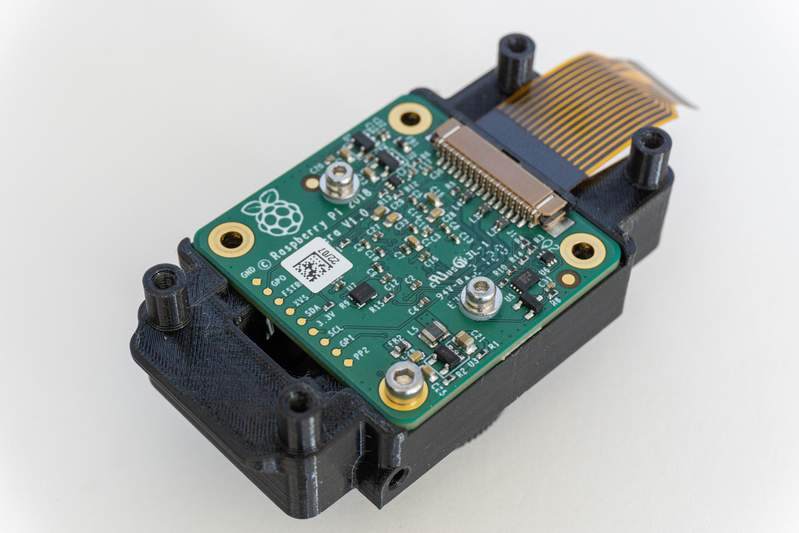
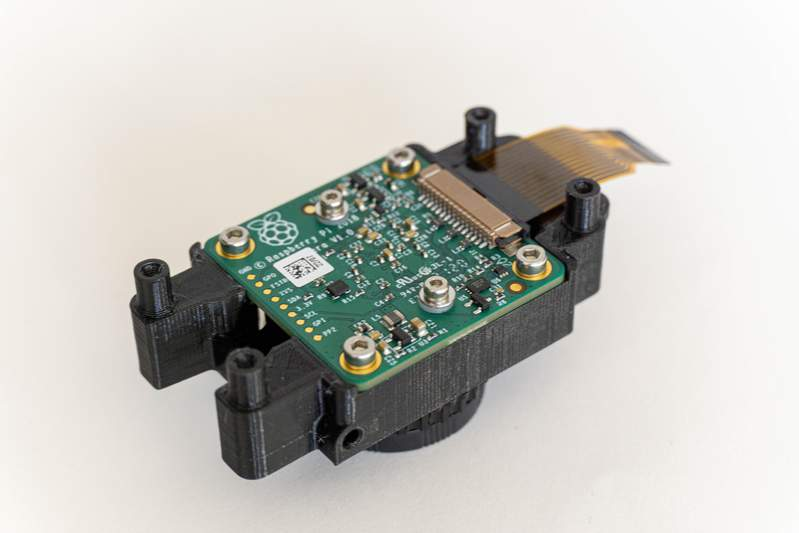
docs: assembly update

diff --git a/docs/js/glide.min.js b/docs/js/glide.min.js
@@ -1,0 +1,6 @@
+/*!
+ * Glide.js v3.4.1
+ * (c) 2013-2019 Jędrzej Chałubek <jedrzej.chalubek@gmail.com> (http://jedrzejchalubek.com/)
+ * Released under the MIT License.
+ */
+!function(t,e){"object"==typeof exports&&"undefined"!=typeof module?module.exports=e():"function"==typeof define&&define.amd?define(e):t.Glide=e()}(this,function(){"use strict";var n={type:"slider",startAt:0,perView:1,focusAt:0,gap:10,autoplay:!1,hoverpause:!0,keyboard:!0,bound:!1,swipeThreshold:80,dragThreshold:120,perTouch:!1,touchRatio:.5,touchAngle:45,animationDuration:400,rewind:!0,rewindDuration:800,animationTimingFunc:"cubic-bezier(.165, .840, .440, 1)",throttle:10,direction:"ltr",peek:0,breakpoints:{},classes:{direction:{ltr:"glide--ltr",rtl:"glide--rtl"},slider:"glide--slider",carousel:"glide--carousel",swipeable:"glide--swipeable",dragging:"glide--dragging",cloneSlide:"glide__slide--clone",activeNav:"glide__bullet--active",activeSlide:"glide__slide--active",disabledArrow:"glide__arrow--disabled"}};function i(t,e){if(!(t instanceof e))throw new TypeError("Cannot call a class as a function")}var r="function"==typeof Symbol&&"symbol"==typeof Symbol.iterator?function(t){return typeof t}:function(t){return t&&"function"==typeof Symbol&&t.constructor===Symbol&&t!==Symbol.prototype?"symbol":typeof t},t=function(t,e,n){return e&&o(t.prototype,e),n&&o(t,n),t};function o(t,e){for(var n=0;n<e.length;n++){var i=e[n];i.enumerable=i.enumerable||!1,i.configurable=!0,"value"in i&&(i.writable=!0),Object.defineProperty(t,i.key,i)}}var a=Object.assign||function(t){for(var e=1;e<arguments.length;e++){var n=arguments[e];for(var i in n)Object.prototype.hasOwnProperty.call(n,i)&&(t[i]=n[i])}return t};function y(t){return parseInt(t)}function s(t){return"string"==typeof t}function u(t){var e=void 0===t?"undefined":r(t);return"function"===e||"object"===e&&!!t}function c(t){return"function"==typeof t}function l(t){return void 0===t}function f(t){return t.constructor===Array}function d(t,e,n){Object.defineProperty(t,e,n)}function h(t,e){var n=a({},t,e);return e.hasOwnProperty("classes")&&(n.classes=a({},t.classes,e.classes),e.classes.hasOwnProperty("direction")&&(n.classes.direction=a({},t.classes.direction,e.classes.direction))),e.hasOwnProperty("breakpoints")&&(n.breakpoints=a({},t.breakpoints,e.breakpoints)),n}var v=(t(e,[{key:"on",value:function(t,e){if(f(t))for(var n=0;n<t.length;n++)this.on(t[n],e);this.hop.call(this.events,t)||(this.events[t]=[]);var i=this.events[t].push(e)-1;return{remove:function(){delete this.events[t][i]}}}},{key:"emit",value:function(t,e){if(f(t))for(var n=0;n<t.length;n++)this.emit(t[n],e);this.hop.call(this.events,t)&&this.events[t].forEach(function(t){t(e||{})})}}]),e);function e(){var t=0<arguments.length&&void 0!==arguments[0]?arguments[0]:{};i(this,e),this.events=t,this.hop=t.hasOwnProperty}var p=(t(m,[{key:"mount",value:function(t){var e=0<arguments.length&&void 0!==t?t:{};return this._e.emit("mount.before"),u(e)&&(this._c=function(t,e,n){var i={};for(var r in e)c(e[r])&&(i[r]=e[r](t,i,n));for(var o in i)c(i[o].mount)&&i[o].mount();return i}(this,e,this._e)),this._e.emit("mount.after"),this}},{key:"mutate",value:function(t){var e=0<arguments.length&&void 0!==t?t:[];return f(e)&&(this._t=e),this}},{key:"update",value:function(t){var e=0<arguments.length&&void 0!==t?t:{};return this.settings=h(this.settings,e),e.hasOwnProperty("startAt")&&(this.index=e.startAt),this._e.emit("update"),this}},{key:"go",value:function(t){return this._c.Run.make(t),this}},{key:"move",value:function(t){return this._c.Transition.disable(),this._c.Move.make(t),this}},{key:"destroy",value:function(){return this._e.emit("destroy"),this}},{key:"play",value:function(t){var e=0<arguments.length&&void 0!==t&&t;return e&&(this.settings.autoplay=e),this._e.emit("play"),this}},{key:"pause",value:function(){return this._e.emit("pause"),this}},{key:"disable",value:function(){return this.disabled=!0,this}},{key:"enable",value:function(){return this.disabled=!1,this}},{key:"on",value:function(t,e){return this._e.on(t,e),this}},{key:"isType",value:function(t){return this.settings.type===t}},{key:"settings",get:function(){return this._o},set:function(t){u(t)&&(this._o=t)}},{key:"index",get:function(){return this._i},set:function(t){this._i=y(t)}},{key:"type",get:function(){return this.settings.type}},{key:"disabled",get:function(){return this._d},set:function(t){this._d=!!t}}]),m);function m(t){var e=1<arguments.length&&void 0!==arguments[1]?arguments[1]:{};i(this,m),this._c={},this._t=[],this._e=new v,this.disabled=!1,this.selector=t,this.settings=h(n,e),this.index=this.settings.startAt}function g(){return(new Date).getTime()}function b(n,i,r){var o=void 0,s=void 0,u=void 0,a=void 0,c=0;r=r||{};function l(){c=!1===r.leading?0:g(),o=null,a=n.apply(s,u),o||(s=u=null)}function t(){var t=g();c||!1!==r.leading||(c=t);var e=i-(t-c);return s=this,u=arguments,e<=0||i<e?(o&&(clearTimeout(o),o=null),c=t,a=n.apply(s,u),o||(s=u=null)):o||!1===r.trailing||(o=setTimeout(l,e)),a}return t.cancel=function(){clearTimeout(o),c=0,o=s=u=null},t}var w={ltr:["marginLeft","marginRight"],rtl:["marginRight","marginLeft"]};function _(t){if(t&&t.parentNode){for(var e=t.parentNode.firstChild,n=[];e;e=e.nextSibling)1===e.nodeType&&e!==t&&n.push(e);return n}return[]}function k(t){return!!(t&&t instanceof window.HTMLElement)}var S='[data-glide-el="track"]';var H=(t(T,[{key:"on",value:function(t,e,n,i){var r=3<arguments.length&&void 0!==i&&i;s(t)&&(t=[t]);for(var o=0;o<t.length;o++)this.listeners[t[o]]=n,e.addEventListener(t[o],this.listeners[t[o]],r)}},{key:"off",value:function(t,e,n){var i=2<arguments.length&&void 0!==n&&n;s(t)&&(t=[t]);for(var r=0;r<t.length;r++)e.removeEventListener(t[r],this.listeners[t[r]],i)}},{key:"destroy",value:function(){delete this.listeners}}]),T);function T(){var t=0<arguments.length&&void 0!==arguments[0]?arguments[0]:{};i(this,T),this.listeners=t}var x=["ltr","rtl"],O={">":"<","<":">","=":"="};function A(t,e){return{modify:function(t){return e.Direction.is("rtl")?-t:t}}}function M(i,r,o){var s=[function(e,n){return{modify:function(t){return t+n.Gaps.value*e.index}}},function(t,e){return{modify:function(t){return t+e.Clones.grow/2}}},function(n,i){return{modify:function(t){if(0<=n.settings.focusAt){var e=i.Peek.value;return u(e)?t-e.before:t-e}return t}}},function(o,s){return{modify:function(t){var e=s.Gaps.value,n=s.Sizes.width,i=o.settings.focusAt,r=s.Sizes.slideWidth;return"center"===i?t-(n/2-r/2):t-r*i-e*i}}}].concat(i._t,[A]);return{mutate:function(t){for(var e=0;e<s.length;e++){var n=s[e];c(n)&&c(n().modify)&&(t=n(i,r,o).modify(t))}return t}}}var C=!1;try{var P=Object.defineProperty({},"passive",{get:function(){C=!0}});window.addEventListener("testPassive",null,P),window.removeEventListener("testPassive",null,P)}catch(t){}var L=C,z=["touchstart","mousedown"],j=["touchmove","mousemove"],D=["touchend","touchcancel","mouseup","mouseleave"],E=["mousedown","mousemove","mouseup","mouseleave"];function R(t){return u(t)?function(n){return Object.keys(n).sort().reduce(function(t,e){return t[e]=n[e],t[e],t},{})}(t):{}}var W={Html:function(e,t){var n={mount:function(){this.root=e.selector,this.track=this.root.querySelector(S),this.slides=Array.prototype.slice.call(this.wrapper.children).filter(function(t){return!t.classList.contains(e.settings.classes.cloneSlide)})}};return d(n,"root",{get:function(){return n._r},set:function(t){s(t)&&(t=document.querySelector(t)),k(t)&&(n._r=t)}}),d(n,"track",{get:function(){return n._t},set:function(t){k(t)&&(n._t=t)}}),d(n,"wrapper",{get:function(){return n.track.children[0]}}),n},Translate:function(r,o,s){var u={set:function(t){var e=M(r,o).mutate(t);o.Html.wrapper.style.transform="translate3d("+-1*e+"px, 0px, 0px)"},remove:function(){o.Html.wrapper.style.transform=""}};return s.on("move",function(t){var e=o.Gaps.value,n=o.Sizes.length,i=o.Sizes.slideWidth;return r.isType("carousel")&&o.Run.isOffset("<")?(o.Transition.after(function(){s.emit("translate.jump"),u.set(i*(n-1))}),u.set(-i-e*n)):r.isType("carousel")&&o.Run.isOffset(">")?(o.Transition.after(function(){s.emit("translate.jump"),u.set(0)}),u.set(i*n+e*n)):u.set(t.movement)}),s.on("destroy",function(){u.remove()}),u},Transition:function(n,i,t){var r=!1,e={compose:function(t){var e=n.settings;return r?t+" 0ms "+e.animationTimingFunc:t+" "+this.duration+"ms "+e.animationTimingFunc},set:function(t){var e=0<arguments.length&&void 0!==t?t:"transform";i.Html.wrapper.style.transition=this.compose(e)},remove:function(){i.Html.wrapper.style.transition=""},after:function(t){setTimeout(function(){t()},this.duration)},enable:function(){r=!1,this.set()},disable:function(){r=!0,this.set()}};return d(e,"duration",{get:function(){var t=n.settings;return n.isType("slider")&&i.Run.offset?t.rewindDuration:t.animationDuration}}),t.on("move",function(){e.set()}),t.on(["build.before","resize","translate.jump"],function(){e.disable()}),t.on("run",function(){e.enable()}),t.on("destroy",function(){e.remove()}),e},Direction:function(t,e,n){var i={mount:function(){this.value=t.settings.direction},resolve:function(t){var e=t.slice(0,1);return this.is("rtl")?t.split(e).join(O[e]):t},is:function(t){return this.value===t},addClass:function(){e.Html.root.classList.add(t.settings.classes.direction[this.value])},removeClass:function(){e.Html.root.classList.remove(t.settings.classes.direction[this.value])}};return d(i,"value",{get:function(){return i._v},set:function(t){-1<x.indexOf(t)&&(i._v=t)}}),n.on(["destroy","update"],function(){i.removeClass()}),n.on("update",function(){i.mount()}),n.on(["build.before","update"],function(){i.addClass()}),i},Peek:function(n,t,e){var i={mount:function(){this.value=n.settings.peek}};return d(i,"value",{get:function(){return i._v},set:function(t){u(t)?(t.before=y(t.before),t.after=y(t.after)):t=y(t),i._v=t}}),d(i,"reductor",{get:function(){var t=i.value,e=n.settings.perView;return u(t)?t.before/e+t.after/e:2*t/e}}),e.on(["resize","update"],function(){i.mount()}),i},Sizes:function(t,i,e){var n={setupSlides:function(){for(var t=this.slideWidth+"px",e=i.Html.slides,n=0;n<e.length;n++)e[n].style.width=t},setupWrapper:function(t){i.Html.wrapper.style.width=this.wrapperSize+"px"},remove:function(){for(var t=i.Html.slides,e=0;e<t.length;e++)t[e].style.width="";i.Html.wrapper.style.width=""}};return d(n,"length",{get:function(){return i.Html.slides.length}}),d(n,"width",{get:function(){return i.Html.root.offsetWidth}}),d(n,"wrapperSize",{get:function(){return n.slideWidth*n.length+i.Gaps.grow+i.Clones.grow}}),d(n,"slideWidth",{get:function(){return n.width/t.settings.perView-i.Peek.reductor-i.Gaps.reductor}}),e.on(["build.before","resize","update"],function(){n.setupSlides(),n.setupWrapper()}),e.on("destroy",function(){n.remove()}),n},Gaps:function(e,o,t){var n={apply:function(t){for(var e=0,n=t.length;e<n;e++){var i=t[e].style,r=o.Direction.value;i[w[r][0]]=0!==e?this.value/2+"px":"",e!==t.length-1?i[w[r][1]]=this.value/2+"px":i[w[r][1]]=""}},remove:function(t){for(var e=0,n=t.length;e<n;e++){var i=t[e].style;i.marginLeft="",i.marginRight=""}}};return d(n,"value",{get:function(){return y(e.settings.gap)}}),d(n,"grow",{get:function(){return n.value*(o.Sizes.length-1)}}),d(n,"reductor",{get:function(){var t=e.settings.perView;return n.value*(t-1)/t}}),t.on(["build.after","update"],b(function(){n.apply(o.Html.wrapper.children)},30)),t.on("destroy",function(){n.remove(o.Html.wrapper.children)}),n},Move:function(t,i,r){var e={mount:function(){this._o=0},make:function(t){var e=this,n=0<arguments.length&&void 0!==t?t:0;this.offset=n,r.emit("move",{movement:this.value}),i.Transition.after(function(){r.emit("move.after",{movement:e.value})})}};return d(e,"offset",{get:function(){return e._o},set:function(t){e._o=l(t)?0:y(t)}}),d(e,"translate",{get:function(){return i.Sizes.slideWidth*t.index}}),d(e,"value",{get:function(){var t=this.offset,e=this.translate;return i.Direction.is("rtl")?e+t:e-t}}),r.on(["build.before","run"],function(){e.make()}),e},Clones:function(v,p,t){var e={mount:function(){this.items=[],v.isType("carousel")&&(this.items=this.collect())},collect:function(t){for(var e=0<arguments.length&&void 0!==t?t:[],n=p.Html.slides,i=v.settings,r=i.perView,o=i.classes,s=r+ +!!v.settings.peek,u=n.slice(0,s),a=n.slice(-s),c=0;c<Math.max(1,Math.floor(r/n.length));c++){for(var l=0;l<u.length;l++){var f=u[l].cloneNode(!0);f.classList.add(o.cloneSlide),e.push(f)}for(var d=0;d<a.length;d++){var h=a[d].cloneNode(!0);h.classList.add(o.cloneSlide),e.unshift(h)}}return e},append:function(){for(var t=this.items,e=p.Html,n=e.wrapper,i=e.slides,r=Math.floor(t.length/2),o=t.slice(0,r).reverse(),s=t.slice(r,t.length),u=p.Sizes.slideWidth+"px",a=0;a<s.length;a++)n.appendChild(s[a]);for(var c=0;c<o.length;c++)n.insertBefore(o[c],i[0]);for(var l=0;l<t.length;l++)t[l].style.width=u},remove:function(){for(var t=this.items,e=0;e<t.length;e++)p.Html.wrapper.removeChild(t[e])}};return d(e,"grow",{get:function(){return(p.Sizes.slideWidth+p.Gaps.value)*e.items.length}}),t.on("update",function(){e.remove(),e.mount(),e.append()}),t.on("build.before",function(){v.isType("carousel")&&e.append()}),t.on("destroy",function(){e.remove()}),e},Resize:function(t,e,n){var i=new H,r={mount:function(){this.bind()},bind:function(){i.on("resize",window,b(function(){n.emit("resize")},t.settings.throttle))},unbind:function(){i.off("resize",window)}};return n.on("destroy",function(){r.unbind(),i.destroy()}),r},Build:function(n,i,t){var e={mount:function(){t.emit("build.before"),this.typeClass(),this.activeClass(),t.emit("build.after")},typeClass:function(){i.Html.root.classList.add(n.settings.classes[n.settings.type])},activeClass:function(){var e=n.settings.classes,t=i.Html.slides[n.index];t&&(t.classList.add(e.activeSlide),_(t).forEach(function(t){t.classList.remove(e.activeSlide)}))},removeClasses:function(){var e=n.settings.classes;i.Html.root.classList.remove(e[n.settings.type]),i.Html.slides.forEach(function(t){t.classList.remove(e.activeSlide)})}};return t.on(["destroy","update"],function(){e.removeClasses()}),t.on(["resize","update"],function(){e.mount()}),t.on("move.after",function(){e.activeClass()}),e},Run:function(o,n,i){var t={mount:function(){this._o=!1},make:function(t){var e=this;o.disabled||(o.disable(),this.move=t,i.emit("run.before",this.move),this.calculate(),i.emit("run",this.move),n.Transition.after(function(){e.isStart()&&i.emit("run.start",e.move),e.isEnd()&&i.emit("run.end",e.move),(e.isOffset("<")||e.isOffset(">"))&&(e._o=!1,i.emit("run.offset",e.move)),i.emit("run.after",e.move),o.enable()}))},calculate:function(){var t=this.move,e=this.length,n=t.steps,i=t.direction,r=function(t){return"number"==typeof t}(y(n))&&0!==y(n);switch(i){case">":">"===n?o.index=e:this.isEnd()?o.isType("slider")&&!o.settings.rewind||(this._o=!0,o.index=0):r?o.index+=Math.min(e-o.index,-y(n)):o.index++;break;case"<":"<"===n?o.index=0:this.isStart()?o.isType("slider")&&!o.settings.rewind||(this._o=!0,o.index=e):r?o.index-=Math.min(o.index,y(n)):o.index--;break;case"=":o.index=n}},isStart:function(){return 0===o.index},isEnd:function(){return o.index===this.length},isOffset:function(t){return this._o&&this.move.direction===t}};return d(t,"move",{get:function(){return this._m},set:function(t){var e=t.substr(1);this._m={direction:t.substr(0,1),steps:e?y(e)?y(e):e:0}}}),d(t,"length",{get:function(){var t=o.settings,e=n.Html.slides.length;return o.isType("slider")&&"center"!==t.focusAt&&t.bound?e-1-(y(t.perView)-1)+y(t.focusAt):e-1}}),d(t,"offset",{get:function(){return this._o}}),t},Swipe:function(d,h,v){var n=new H,p=0,m=0,g=0,i=!1,r=!!L&&{passive:!0},t={mount:function(){this.bindSwipeStart()},start:function(t){if(!i&&!d.disabled){this.disable();var e=this.touches(t);p=null,m=y(e.pageX),g=y(e.pageY),this.bindSwipeMove(),this.bindSwipeEnd(),v.emit("swipe.start")}},move:function(t){if(!d.disabled){var e=d.settings,n=e.touchAngle,i=e.touchRatio,r=e.classes,o=this.touches(t),s=y(o.pageX)-m,u=y(o.pageY)-g,a=Math.abs(s<<2),c=Math.abs(u<<2),l=Math.sqrt(a+c),f=Math.sqrt(c);if(!(180*(p=Math.asin(f/l))/Math.PI<n))return!1;t.stopPropagation(),h.Move.make(s*function(t){return parseFloat(t)}(i)),h.Html.root.classList.add(r.dragging),v.emit("swipe.move")}},end:function(t){if(!d.disabled){var e=d.settings,n=this.touches(t),i=this.threshold(t),r=n.pageX-m,o=180*p/Math.PI,s=Math.round(r/h.Sizes.slideWidth);this.enable(),i<r&&o<e.touchAngle?(e.perTouch&&(s=Math.min(s,y(e.perTouch))),h.Direction.is("rtl")&&(s=-s),h.Run.make(h.Direction.resolve("<"+s))):r<-i&&o<e.touchAngle?(e.perTouch&&(s=Math.max(s,-y(e.perTouch))),h.Direction.is("rtl")&&(s=-s),h.Run.make(h.Direction.resolve(">"+s))):h.Move.make(),h.Html.root.classList.remove(e.classes.dragging),this.unbindSwipeMove(),this.unbindSwipeEnd(),v.emit("swipe.end")}},bindSwipeStart:function(){var e=this,t=d.settings;t.swipeThreshold&&n.on(z[0],h.Html.wrapper,function(t){e.start(t)},r),t.dragThreshold&&n.on(z[1],h.Html.wrapper,function(t){e.start(t)},r)},unbindSwipeStart:function(){n.off(z[0],h.Html.wrapper,r),n.off(z[1],h.Html.wrapper,r)},bindSwipeMove:function(){var e=this;n.on(j,h.Html.wrapper,b(function(t){e.move(t)},d.settings.throttle),r)},unbindSwipeMove:function(){n.off(j,h.Html.wrapper,r)},bindSwipeEnd:function(){var e=this;n.on(D,h.Html.wrapper,function(t){e.end(t)})},unbindSwipeEnd:function(){n.off(D,h.Html.wrapper)},touches:function(t){return-1<E.indexOf(t.type)?t:t.touches[0]||t.changedTouches[0]},threshold:function(t){var e=d.settings;return-1<E.indexOf(t.type)?e.dragThreshold:e.swipeThreshold},enable:function(){return i=!1,h.Transition.enable(),this},disable:function(){return i=!0,h.Transition.disable(),this}};return v.on("build.after",function(){h.Html.root.classList.add(d.settings.classes.swipeable)}),v.on("destroy",function(){t.unbindSwipeStart(),t.unbindSwipeMove(),t.unbindSwipeEnd(),n.destroy()}),t},Images:function(t,e,n){var i=new H,r={mount:function(){this.bind()},bind:function(){i.on("dragstart",e.Html.wrapper,this.dragstart)},unbind:function(){i.off("dragstart",e.Html.wrapper)},dragstart:function(t){t.preventDefault()}};return n.on("destroy",function(){r.unbind(),i.destroy()}),r},Anchors:function(t,e,n){var i=new H,r=!1,o=!1,s={mount:function(){this._a=e.Html.wrapper.querySelectorAll("a"),this.bind()},bind:function(){i.on("click",e.Html.wrapper,this.click)},unbind:function(){i.off("click",e.Html.wrapper)},click:function(t){o&&(t.stopPropagation(),t.preventDefault())},detach:function(){if(o=!0,!r){for(var t=0;t<this.items.length;t++)this.items[t].draggable=!1,this.items[t].setAttribute("data-href",this.items[t].getAttribute("href")),this.items[t].removeAttribute("href");r=!0}return this},attach:function(){if(o=!1,r){for(var t=0;t<this.items.length;t++)this.items[t].draggable=!0,this.items[t].setAttribute("href",this.items[t].getAttribute("data-href"));r=!1}return this}};return d(s,"items",{get:function(){return s._a}}),n.on("swipe.move",function(){s.detach()}),n.on("swipe.end",function(){e.Transition.after(function(){s.attach()})}),n.on("destroy",function(){s.attach(),s.unbind(),i.destroy()}),s},Controls:function(i,e,t){var n=new H,r=!!L&&{passive:!0},o={mount:function(){this._n=e.Html.root.querySelectorAll('[data-glide-el="controls[nav]"]'),this._c=e.Html.root.querySelectorAll('[data-glide-el^="controls"]'),this.addBindings()},setActive:function(){for(var t=0;t<this._n.length;t++)this.addClass(this._n[t].children)},removeActive:function(){for(var t=0;t<this._n.length;t++)this.removeClass(this._n[t].children)},addClass:function(t){var e=i.settings,n=t[i.index];n&&(n.classList.add(e.classes.activeNav),_(n).forEach(function(t){t.classList.remove(e.classes.activeNav)}))},removeClass:function(t){var e=t[i.index];e&&e.classList.remove(i.settings.classes.activeNav)},addBindings:function(){for(var t=0;t<this._c.length;t++)this.bind(this._c[t].children)},removeBindings:function(){for(var t=0;t<this._c.length;t++)this.unbind(this._c[t].children)},bind:function(t){for(var e=0;e<t.length;e++)n.on("click",t[e],this.click),n.on("touchstart",t[e],this.click,r)},unbind:function(t){for(var e=0;e<t.length;e++)n.off(["click","touchstart"],t[e])},click:function(t){t.preventDefault(),e.Run.make(e.Direction.resolve(t.currentTarget.getAttribute("data-glide-dir")))}};return d(o,"items",{get:function(){return o._c}}),t.on(["mount.after","move.after"],function(){o.setActive()}),t.on("destroy",function(){o.removeBindings(),o.removeActive(),n.destroy()}),o},Keyboard:function(t,e,n){var i=new H,r={mount:function(){t.settings.keyboard&&this.bind()},bind:function(){i.on("keyup",document,this.press)},unbind:function(){i.off("keyup",document)},press:function(t){39===t.keyCode&&e.Run.make(e.Direction.resolve(">")),37===t.keyCode&&e.Run.make(e.Direction.resolve("<"))}};return n.on(["destroy","update"],function(){r.unbind()}),n.on("update",function(){r.mount()}),n.on("destroy",function(){i.destroy()}),r},Autoplay:function(e,n,t){var i=new H,r={mount:function(){this.start(),e.settings.hoverpause&&this.bind()},start:function(){var t=this;e.settings.autoplay&&l(this._i)&&(this._i=setInterval(function(){t.stop(),n.Run.make(">"),t.start()},this.time))},stop:function(){this._i=clearInterval(this._i)},bind:function(){var t=this;i.on("mouseover",n.Html.root,function(){t.stop()}),i.on("mouseout",n.Html.root,function(){t.start()})},unbind:function(){i.off(["mouseover","mouseout"],n.Html.root)}};return d(r,"time",{get:function(){var t=n.Html.slides[e.index].getAttribute("data-glide-autoplay");return y(t||e.settings.autoplay)}}),t.on(["destroy","update"],function(){r.unbind()}),t.on(["run.before","pause","destroy","swipe.start","update"],function(){r.stop()}),t.on(["run.after","play","swipe.end"],function(){r.start()}),t.on("update",function(){r.mount()}),t.on("destroy",function(){i.destroy()}),r},Breakpoints:function(t,e,n){var i=new H,r=t.settings,o=R(r.breakpoints),s=a({},r),u={match:function(t){if(void 0!==window.matchMedia)for(var e in t)if(t.hasOwnProperty(e)&&window.matchMedia("(max-width: "+e+"px)").matches)return t[e];return s}};return a(r,u.match(o)),i.on("resize",window,b(function(){t.settings=h(r,u.match(o))},t.settings.throttle)),n.on("update",function(){o=R(o),s=a({},r)}),n.on("destroy",function(){i.off("resize",window)}),u}};function G(){return i(this,G),function(t,e){if(!t)throw new ReferenceError("this hasn't been initialised - super() hasn't been called");return!e||"object"!=typeof e&&"function"!=typeof e?t:e}(this,(G.__proto__||Object.getPrototypeOf(G)).apply(this,arguments))}return function(t,e){if("function"!=typeof e&&null!==e)throw new TypeError("Super expression must either be null or a function, not "+typeof e);t.prototype=Object.create(e&&e.prototype,{constructor:{value:t,enumerable:!1,writable:!0,configurable:!0}}),e&&(Object.setPrototypeOf?Object.setPrototypeOf(t,e):t.__proto__=e)}(G,p),t(G,[{key:"mount",value:function(t){var e=0<arguments.length&&void 0!==t?t:{};return function t(e,n,i){null===e&&(e=Function.prototype);var r=Object.getOwnPropertyDescriptor(e,n);if(void 0===r){var o=Object.getPrototypeOf(e);return null===o?void 0:t(o,n,i)}if("value"in r)return r.value;var s=r.get;return void 0!==s?s.call(i):void 0}(G.prototype.__proto__||Object.getPrototypeOf(G.prototype),"mount",this).call(this,a({},W,e))}}]),G});

diff --git a/docs/index.html b/docs/index.html
@@ -7,12 +7,38 @@ description: Build your own digital solargraphy camera
 		<h1 class="editable">A Camera Kit for <strong>Digital Solargraphy</strong></h1>
 		<p class="subtext editable">Build your own ultra-long exposure camera for Digital Solargraphy and Timelapses</p>
 		<div class="heroimage">
-			<img src="{{ site.baseurl }}/images/front_hero.jpg" alt="Screenshot" class="editable" />
+
+			<!-- <img src="{{ site.baseurl }}/images/front_hero.jpg" alt="Screenshot" class="editable" /> -->
+
+	<div class="glide">
+ 		 <div data-glide-el="track" class="glide__track">
+   			<ul class="glide__slides">
+      			<li class="glide__slide"><img src="{{ site.baseurl }}/images/front_hero.jpg" alt="Screenshot" /></li>
+      			<li class="glide__slide"><img src="{{ site.baseurl }}/images/front_hero2.jpg" alt="Screenshot" /></li>
+      			<li class="glide__slide"><img src="{{ site.baseurl }}/images/front_hero3.jpg" alt="Screenshot" /></li>
+    		</ul>
+  		</div>
+
+		<div class="glide__bullets" data-glide-el="controls[nav]">
+		    <button class="glide__bullet" data-glide-dir="=0"></button>
+		    <button class="glide__bullet" data-glide-dir="=1"></button>
+		    <button class="glide__bullet" data-glide-dir="=2"></button>
+		</div>
+
+		<div class="glide__arrows" data-glide-el="controls">
+	    	<button class="glide__arrow glide__arrow--left" data-glide-dir="<">&lt;</button>
+	    	<button class="glide__arrow glide__arrow--right" data-glide-dir=">">&gt;</button>
+	  	</div>
+	</div>
+
+
 		</div>
 	</div>
 </section>
 
 <div class="content">
+
+
 	<section>
 		<div class="container flex">
 			<div class="text editable">
@@ -34,7 +60,7 @@ description: Build your own digital solargraphy camera
 				<div class="cta button alt"><a href="{{ site.baseurl }}/assembly">See the assembly instructions</a></div>
 			</div>
 			<div class="image">
-				<img src="{{ site.baseurl }}/images/front_assembly.jpg" alt="Screenshot" class="editable" />
+				<img src="{{ site.baseurl }}/images/front_assembly.jpg" alt="Screenshot" class="editable" style="border: 1px solid #AAA"/>
 			</div>
 		</div>
 	</section>

diff --git a/docs/css/glide.theme.min.css b/docs/css/glide.theme.min.css
@@ -1,0 +1,1 @@
+.glide__arrow{position:absolute;display:block;top:50%;z-index:2;color:white;text-transform:uppercase;padding:9px 12px;background-color:transparent;border:2px solid rgba(255,255,255,0.5);border-radius:4px;box-shadow:0 0.25em 0.5em 0 rgba(0,0,0,0.1);text-shadow:0 0.25em 0.5em rgba(0,0,0,0.1);opacity:1;cursor:pointer;transition:opacity 150ms ease, border 300ms ease-in-out;transform:translateY(-50%);line-height:1}.glide__arrow:focus{outline:none}.glide__arrow:hover{border-color:white}.glide__arrow--left{left:2em}.glide__arrow--right{right:2em}.glide__arrow--disabled{opacity:0.33}.glide__bullets{position:absolute;z-index:2;bottom:2em;left:50%;display:inline-flex;list-style:none;transform:translateX(-50%)}.glide__bullet{background-color:rgba(255,255,255,0.5);width:9px;height:9px;padding:0;border-radius:50%;border:2px solid transparent;transition:all 300ms ease-in-out;cursor:pointer;line-height:0;box-shadow:0 0.25em 0.5em 0 rgba(0,0,0,0.1);margin:0 0.25em}.glide__bullet:focus{outline:none}.glide__bullet:hover,.glide__bullet:focus{border:2px solid white;background-color:rgba(255,255,255,0.5)}.glide__bullet--active{background-color:white}.glide--swipeable{cursor:grab;cursor:-moz-grab;cursor:-webkit-grab}.glide--dragging{cursor:grabbing;cursor:-moz-grabbing;cursor:-webkit-grabbing}

diff --git a/docs/css/glide.core.min.css b/docs/css/glide.core.min.css
@@ -1,0 +1,1 @@
+.glide{position:relative;width:100%;box-sizing:border-box}.glide *{box-sizing:inherit}.glide__track{overflow:hidden}.glide__slides{position:relative;width:100%;list-style:none;backface-visibility:hidden;transform-style:preserve-3d;touch-action:pan-Y;overflow:hidden;padding:0;white-space:nowrap;display:flex;flex-wrap:nowrap;will-change:transform}.glide__slides--dragging{user-select:none}.glide__slide{width:100%;height:100%;flex-shrink:0;white-space:normal;user-select:none;-webkit-touch-callout:none;-webkit-tap-highlight-color:transparent}.glide__slide a{user-select:none;-webkit-user-drag:none;-moz-user-select:none;-ms-user-select:none}.glide__arrows{-webkit-touch-callout:none;user-select:none}.glide__bullets{-webkit-touch-callout:none;user-select:none}.glide--rtl{direction:rtl}

diff --git a/docs/_layouts/default.html b/docs/_layouts/default.html
@@ -9,11 +9,15 @@
 		{% feed_meta %}
 
 		<link rel="stylesheet" href="{{ site.baseurl }}/css/screen.css">
+		<link rel="stylesheet" href="{{ site.baseurl }}/css/glide.core.min.css">
+		<link rel="stylesheet" href="{{ site.baseurl }}/css/glide.theme.min.css">
+		<link rel="stylesheet" href="{{ site.baseurl }}/css/lightbox.min.css">
 		<link rel="stylesheet" href="{{ site.baseurl }}/css/custom.css">
+
 		<link rel="icon" type="image/png" href="{{ site.baseurl }}/favicon.png">
 
-		<link rel="stylesheet" href="{{ site.baseurl }}/css/lightbox.min.css">
 		<script src="{{ site.baseurl }}/js/lightbox-plus-jquery.min.js"></script>
+		<script src="{{ site.baseurl }}/js/glide.min.js"></script>
 
 		{% if site.google_analytics_key != '' %}
 			<script>

diff --git a/docs/_includes/footer.html b/docs/_includes/footer.html
@@ -1,5 +1,3 @@
-<script src="{{ site.baseurl }}/js/lightbox-plus-jquery.min.js"></script>
-
 <script>
 
     // find every image that has the enable_lightbox class and place 
@@ -28,5 +26,9 @@
       'fadeDuration': 200,
       'imageFadeDuration': 200
     });
+
+    new Glide('.glide', {
+      type: 'carousel'
+    }).mount();
     
 </script>

diff --git a/docs/assembly.md b/docs/assembly.md
@@ -60,39 +60,42 @@ Additionally you will find a tiny flat-head screwdriver in a paper pouch. Keep t
 **A word of caution beforehand: be careful, excessive force may break the connector.**
 
 ![Camera Module connector]( {{ site.baseurl }}/assets/{{ page.imgdir }}/102.jpg ){:.enable_lightbox}
+
+Put your fingernails on the tiny plastic nudges of the connector and push the plastic bar gently towards the cable. You will be able to move it about a millimeter.
+
 ![Camera Module connector]( {{ site.baseurl }}/assets/{{ page.imgdir }}/103.jpg ){:.enable_lightbox}
 
-Put your fingernails on the tiny plastic nudges of the connector and push the plastic bar gently towards the cable. You will be able to move it about a millimeter. Afterwards the cable is not secured anymore and can be pulled from the connector.
+Afterwards the cable is not secured anymore and can be pulled straight from the connector.
 
 ![Camera Module remove the tripod mount]( {{ site.baseurl }}/assets/{{ page.imgdir }}/104.jpg ){:.enable_lightbox}
 
-Second step: remove the tripod mount. For this you will need an Allen key of size 1.5mm. Unscrew both screws left and right and remove the metal part with the threaded hole. Keep the screws and the mount in case you want to use the camera module in a different way in the future. 
+Second step: remove the tripod mount. For this you will need an Allen key of size 1.5mm. Unscrew both screws on the left and right side and remove the metal part with the threaded hole. Keep the screws and the mount in case you want to use the camera module in a different way in the future. 
 
 ![Camera Module disassembled]( {{ site.baseurl }}/assets/{{ page.imgdir }}/105.jpg ){:.enable_lightbox}
 
-The Camera Module is fully disassembled now. 
+The Camera Module is fully disassembled now.  
 Now we need to put it back together with the correct plastic parts.
 
 ![Camera Module materials]( {{ site.baseurl }}/assets/{{ page.imgdir }}/110.jpg ){:.enable_lightbox}
 
 ![Camera Module connector]( {{ site.baseurl }}/assets/{{ page.imgdir }}/112.jpg ){:.enable_lightbox}
 
-First step: grab the orange camera cable and align it as shown in the photo. Wide end facing the camera, exposed metal side facing towards the circuit board. Push the cable in the connector (about 2mm) and hold it with two fingers while you secure the connector again. The camera module now needs to be screwed to the corresponding 3d-printed plastic part.
+First step: grab the orange camera cable and align it as shown in the photo. Wide end facing the camera, exposed metal side facing towards the circuit board. Push the cable straight into the connector (about 2mm deep) and hold it with two fingers while you secure the connector again by pushing down the plastic bar. The camera module now needs to be screwed to the corresponding 3D-printed plastic part.
 
 ![Camera Module connector]( {{ site.baseurl }}/assets/{{ page.imgdir }}/113.jpg ){:.enable_lightbox}
 ![Camera Module connector]( {{ site.baseurl }}/assets/{{ page.imgdir }}/114.jpg ){:.enable_lightbox}
 ![Camera Module connector]( {{ site.baseurl }}/assets/{{ page.imgdir }}/115.jpg ){:.enable_lightbox}
 
-We will now attach the Camera Module to main plastic part that holds everything. While you are able to fit the module in two ways in the plastic part, we need to orient it as shown in the picture below.
+We will now attach the Camera Module to main plastic part that holds everything. While you are able to fit the module in two ways in the plastic part, we need to orient it as shown in the picture below (but don't push it in just yet).
 
 ![Camera Module connector]( {{ site.baseurl }}/assets/{{ page.imgdir }}/116.jpg ){:.enable_lightbox}
 
-A word of caution again: the plastic part is manufactured with a 3d-printer. Excessive force while tightening the screws will break the plastic. Always use enough torque so that the screw sits nicely, but never use more force than you would be able to apply with two fingers on the screwdriver.
+A word of caution again: the plastic part is manufactured with a 3D-printer. Excessive force while tightening the screws will break the plastic. Always use enough torque so that the screw sits nicely, but never use more force than you would be able to apply with two fingers on the screwdriver.
 
 ![Camera Module plastic connector]( {{ site.baseurl }}/assets/{{ page.imgdir }}/117.jpg ){:.enable_lightbox}
 ![Camera Module plastic connector]( {{ site.baseurl }}/assets/{{ page.imgdir }}/118.jpg ){:.enable_lightbox}
 
-Put a nut in each of the three holes shown in the photo. Often using the screwdriver makes it easier to push the nut in the hole (the nut doesn't need to touch the bottom of the hole, this happens during fastening).
+Put a nut in each of the four holes shown in the photo. Often using the screwdriver makes it easier to push the nut in the hole (the nut doesn't need to touch the bottom of the hole, this happens during fastening).
 
 ![Camera Module plastic connector]( {{ site.baseurl }}/assets/{{ page.imgdir }}/119.jpg ){:.enable_lightbox}
 
@@ -181,15 +184,21 @@ In order to do that, we need to use the blue screwdriver that came with the Came
 ![streaming mode]( {{ site.baseurl }}/assets/{{ page.imgdir }}/225.jpg ){:.enable_lightbox}
 
 Put the fully charged batteries in the battery holder (mind the orientation!) and push the power switch to ON. 
+Note: 18650 batteries usually have a flat positive pole. So unlike smaller batteries the plus side is less pronounced. You can always differentiate the sides by knowing that the negative side is completely flat while the positive side looks different. The negative side needs to be placed on the spring in the holder. Molded into the plastic of the holder you will find an additional 
 
 ![battery leads]( {{ site.baseurl }}/assets/{{ page.imgdir }}/battery_leads.jpg ){:.enable_lightbox}
 
 The camera will now start and wait for 10s for user input. If you push the button while the LED is blinking, the camera will start in maintenance mode, create a Wifi network and will wait for further input. If the button is not pressed, camera will start normally and begins capturing.
 
-TODO: add screenshot of interface
+![status led]( {{ site.baseurl }}/assets/{{ page.imgdir }}/led_status.png ){:.enable_lightbox}
 
-After 30 seconds the camera is fully booted and you can connect to the `CompressorCamera` network. The default password is `TODO`. Open the <a href="http://compressor.camera">compressor.camera</a> website and click on stream (this will only work when you are connected to the camera network). What you will see now is a 100% crop of the last image the camera took. Click on the image to let the camera take a new picture (this may take a few seconds). Based on this crop you can rotate the ring that holds the lens to adjust the backfocus of the lens. The image will be extremly blurry in the start since the Camera Module is shipped with the backfocus ring fully screwed in. You may need to rotate the ring for 1 or 2 full revolutions till the camera output resembles an actual image. Refresh by clicking on the image, rotate the ring a bit, refresh again, ... 
-If you did find the best focus position and your camera output is nice and sharp, fasten the screw with the blue screwdriver. The lens is now secured and focussed. You can switch the camera off with the power switch on the board.
+After 30 seconds the camera is fully booted and you can connect to the `CompressorCamera` network. The default password is `ccam_password`. Open the <a href="http://compressor.camera">compressor.camera</a> website and click on focus in the sidebar (this will only work when you are connected to the camera network). What you will see now is a 100% crop of the center of the camera image. Click on the image to let the camera take a new picture (this may take a few seconds). Based on this crop you can rotate the ring that holds the lens to adjust the backfocus of the lens. The image will be extremly blurry in the start since the Camera Module is shipped with the backfocus ring fully screwed in. You may need to rotate the ring for 1 or 2 full revolutions till the camera output resembles an actual image. Refresh by clicking on the image, rotate the ring a bit, refresh again, ... 
+
+![webinterface screenshot]( {{ site.baseurl }}/assets/{{ page.imgdir }}/webinterface_screenshot.png ){:.enable_lightbox}
+
+If you face your camera to your ceiling and you got an very classic german wallpaper texture, then it would look like the image above.
+
+If you did find the best focus position and your camera output is nice and sharp, fasten the screw with the blue screwdriver. The lens is now secured and focussed and you are not able to rotate the backfocus ring any further. You can switch the camera off with the power switch on the board.
 
 ### <a name="finish"></a>Finish the enclosure
 
@@ -211,7 +220,7 @@ And that's how the insert with the camera electronics should look like.
 
 ![]( {{ site.baseurl }}/assets/{{ page.imgdir }}/310.jpg ){:.enable_lightbox}
 
-Now we need to assemble the top element of the enclosure, fastening the filter and it's printed front element.
+Now we need to assemble the top element of the enclosure, fastening the filter and its printed front element.
 
 ![]( {{ site.baseurl }}/assets/{{ page.imgdir }}/311.jpg ){:.enable_lightbox}
 
@@ -247,13 +256,20 @@ When placing the insert with the camera and the battery holder in the enclosure,
 
 ![]( {{ site.baseurl }}/assets/{{ page.imgdir }}/323.jpg ){:.enable_lightbox}
 
-Use the last four screws (50mm long) to close the enclosure. 
+Use the last four screws (50mm long) to close the enclosure. Only the last 4mm of the screw are engaging with the thread in the lower part of the enclosure. So place every screw in the hole and press the upper part of the enclosure a bit down. Then fasten one screw a bit, move on to the next one diagonally and fasten that a bit, too. Then you can fasten all four screws completely till both halves are flush. The screws need to compress the seal in between but if upper and lower half touch, the seal is tight.
 
 ### <a name="take"></a>Take images
 
-TODO
+Now take the camera to it's location, fasten it on the tripod or fix it to a pole with zipties and you are done.
+
+![Lumos app Screenshot]( {{ site.baseurl }}/assets/{{ page.imgdir }}/lumos_screenshot.jpg ){:.enable_lightbox}
+
+When scouting locations it is advisable to get an understanding where the sun will be visible at which time. There are a few apps that show an Augmented Reality-like overview on your smartphone, such as [Photographers Ephemeris](https://www.photoephemeris.com/) or [Lumos](https://apps.apple.com/app/lumos-sun-and-moon-tracker/id725106192) for iOS. 
+Lumos is what I use and recommend, since it's simple and does it's job exceptionally well.
 
 ### <a name="copy"></a>Copy the data
+
+TODO PI ACT LED
 
 After a day or two, grab your camera again and open the enclosure. Make sure that the LED (see image) is not on before moving the switch to off and remove the SD-card.
 
@@ -263,16 +279,26 @@ On the CCSTORAGE partition you will find four folders and a text file that conta
 
 ### <a name="postprocessing"></a>Postprocess
 
-Download the compressor software for Windows or MacOS. You will find the latest release [here](https://github.com/volzotan/CompressorCam/releases). Start the application and select the first folder (`capture_regular`) as input. Set the processing mode to `stack` and hit start. The compressor software will now combine all correctly exposed images and compute based on the metadata a long exposure image. If you did not select a specific output directory, the output will be stored in `captures_regular_stacked`.
+![Application screenshot]( {{ site.baseurl }}/assets/{{ page.imgdir }}/application_screenshot.png ){:.enable_lightbox}
+
+Download the compressor software for Windows 10 or MacOS. You will find the latest release [here](https://github.com/volzotan/CompressorCam/releases). Start the application (may take a few seconds) and select the first folder (`capture_regular`) as input. Set the processing mode to `stack` and hit start. The compressor software will now combine all correctly exposed images and compute (based on the metadata) a long exposure image. If you did not select a specific output directory, the output will be stored in `captures_regular_stacked`.
+
+![Application screenshot stack]( {{ site.baseurl }}/assets/{{ page.imgdir }}/example_marktplatz_1.jpg ){:.enable_lightbox}
+
+This will result in a correctly exposed long exposure image, as above.
 
 Repeat this with the other three directories but set the processing mode to `peak`. This may take a few minutes depending on the number of captures.
+
+![Application screenshot peak]( {{ site.baseurl }}/assets/{{ page.imgdir }}/example_marktplatz_2.jpg ){:.enable_lightbox}
+
+The peaking images will only contain the extremly overexposed parts of the image, as above.
 
 Merge the resulting images in your preferred software such as Photoshop or Gimp. What usually works well is to use the long exposure image as the base layer and overlay the peaked images in either `Lighten` or `Screen` blend mode. 
 
 ### Additional info:
 
 #### Never flip the batteries!
-I assume it is not necessary to state this, but I will do it nevertheless: never place the batteries in the holder reversed! Never confuse the battery holder cables! Never use a conductive screwdriver to remove the batteries from the holder! Reverse polarity will destroy the electronics instantly. You are using 18650 Lithium-Ion cells and short-circuiting these batteries will release enough energy to get glowing red metal in a matter of seconds. Cells will be impossible to touch and may explode. Do not discharge the batteries below 3V per battery (the CompressorCamera board will shutdown and cease to work before the batteries reach deep-discharge levels).
+I assume it is not necessary to state this, but I will do it nevertheless: never place the batteries in the holder reversed! Never confuse the battery holder cables! Never use a conductive screwdriver to remove the batteries from the holder! Reverse polarity will destroy the electronics instantly. You are using 18650 Lithium-Ion cells and short-circuiting these batteries will release enough energy to get glowing red metal in a matter of seconds. Cells will be impossible to touch and may explode. Do not discharge the batteries below 3V per battery (the CompressorCamera board will shutdown and cease to work at 3.1V in order to protect the batteries before they reach deep-discharge levels).
 
 #### Do not leave the batteries in the camera over an extended amount of time
 Even when the switch is set to off the circuit will draw an incredibly tiny but constant amount of power. Remove the batteries when not using the camera for several weeks and recharge them before the next usage.

diff --git a/docs/buyersguide.md b/docs/buyersguide.md
@@ -3,7 +3,7 @@ title: Buyers Guide
 permalink: buyers_guide
 ---
 
-There are a few things you need to buy separately to complete the camera kit:
+There are a few things you need to have or buy separately to complete the camera kit:
 
   * Raspberry Pi Zero W (without headers)
   * Raspberry Pi Zero HQ camera module
